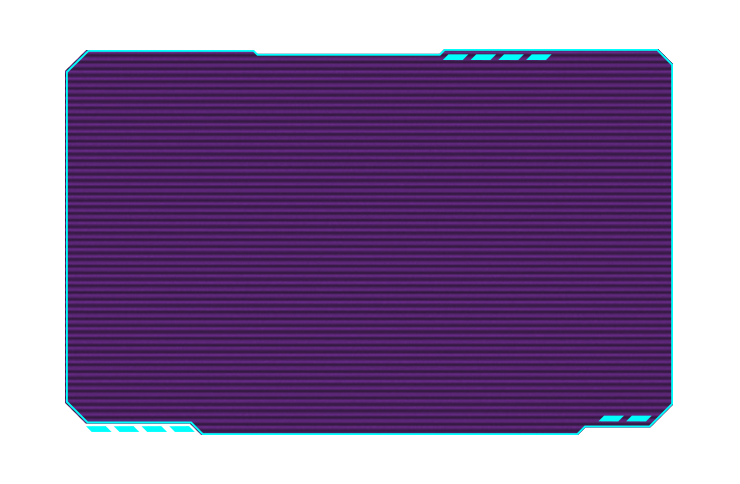
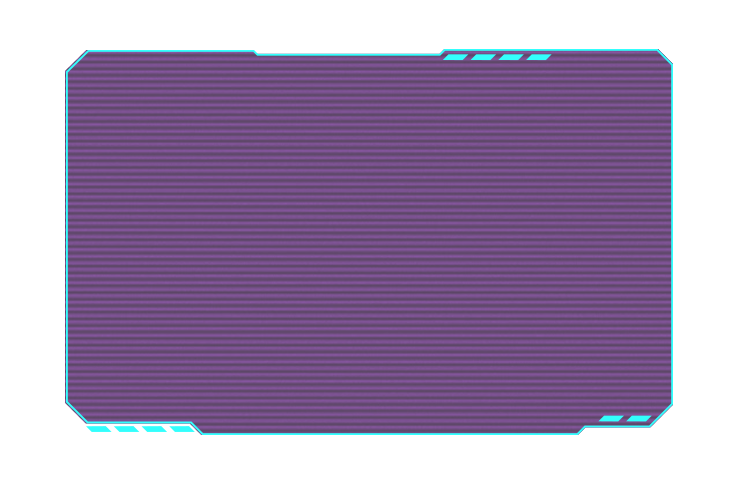
newsletter updates and removed preloader

diff --git a/index.html b/index.html
@@ -21,9 +21,9 @@
 
 <body>
     <div class="page-wrapper">
-        <div class="preloader">
+        <!-- <div class="preloader">
             <div class="icon"></div>
-        </div>
+        </div> -->
 
         <div class="bg-parallax rellax" data-rellax-speed="10">
         </div>
@@ -54,8 +54,8 @@
                                         <li><a href="#roadmap">ROADMAP</a></li>
                                         <li class="dropdown exdrp" id="exdrop"><a href="#">EXPLORE<span class="arrow-d" id="spanex"></span></a>
                                             <ul>
-                                                <li><a href="https://drive.google.com/file/d/11oEQNsbZiHMrc7j1-IWCsz8owNkXF5jy/view" target="_blank">WHITEPAPER</a></li>
                                                 <li><a href="faq.html" target="_blank">FAQs</i></a></li>
+                                                <li><a href="https://drive.google.com/file/d/11oEQNsbZiHMrc7j1-IWCsz8owNkXF5jy/view" target="_blank">WHITEPAPER</a></li>
                                                 <li><a href="https://medium.com/@ASTRO_XP" target="_blank">NEWSLETTER</a></li>
                                             </ul>
                                         </li>
@@ -391,7 +391,7 @@
 
                             <div id="mce-responses" class="clear foot inline">
                                 <div class="response" id="mce-error-response" style="display:none"></div>
-                                <div class="response" id="mce-success-response" style="display:none"></div>
+                                <div class="response" id="mce-success-response" style="display:none">test</div>
                             </div>
                         </div>
                     </div>
@@ -427,8 +427,8 @@
                                                 <div class="inner-column wow fadeInLeft" data-wow-delay="0ms">
                                                     <!-- Sec Title -->
                                                     <div class="sec-title-bld">
-                                                        <div class="title">Build With Us</div>
-                                                        <h2>Let's create the Metaverse together</h2>
+                                                        <!-- <div class="title">Build With Us</div> -->
+                                                        <h2>Let's build the Metaverse together</h2>
                                                     </div>
                                                 </div>
 

diff --git a/css/style.css b/css/style.css
@@ -281,8 +281,10 @@ figure {
     position: relative;
     display: block;
     z-index: 1;
+    font-family: 'Oxanium';
+    font-size: 12px;
     padding: 0px 12px;
-    background-color: #000000c2;
+    background-color: #26003c;
     transition: all 0.3s ease;
     -moz-transition: all 0.3s ease;
     -webkit-transition: all 0.3s ease;
@@ -1984,6 +1986,7 @@ img {
     font-size: 25px;
     line-height: 1.1em;
     font-family: 'Oxanium';
+    padding-left: 200px;
     color: rgb(255 255 255);
     text-align: right;
     font-weight: bold;
@@ -4141,9 +4144,13 @@ input.email {
 ***/
 
 #mc_embed_signup #mce-success-response {
-    color: #ffffff;
+    color: #6de2ff;
     display: none;
     text-shadow: -1px 1px #000000;
+    margin-top: 10px;
+    font-family: 'Oxanium';
+    font-weight: 600;
+    text-transform: uppercase;
     backdrop-filter: blur(1px);
 }
 
@@ -4182,6 +4189,7 @@ input.email {
 
 .mc-field-group .btn-style-one .btn-title {
     background: #180229;
+    font-size: 12px;
 }
 
 #mc_embed_signup form {
@@ -4195,14 +4203,15 @@ input.email {
     display: inline-block;
     margin: 5px 0 0;
     padding: 3px !important;
-    background-color: rgba(255, 255, 255, 0.85);
+    background-color: rgb(34, 14, 54);
     -webkit-border-radius: 3px;
     -moz-border-radius: 3px;
     border-radius: 3px;
     font-size: 14px;
-    font-weight: normal;
+    font-family: 'Oxanium';
+    font-weight: bold;
     z-index: 1;
-    color: #e85c41;
+    color: #ff0000;
 }
 
 .call-to-action-section {
@@ -4453,7 +4462,7 @@ input.email {
     height: 37px;
     font-size: 12px;
     padding: 0px 8px;
-    background: #1b1a1a;
+    background: #2d0046;
     color: #FFF;
     font-weight: 400;
     border: 1px solid rgba(255, 255, 255, 0);

diff --git a/css/responsive.css b/css/responsive.css
@@ -156,6 +156,37 @@
     }
 }
 
+@media only screen and (max-height: 1440px) {
+    .holov-container {
+        height: 52vh !important;
+    }
+    .auto-container.fl {
+        top: -455px;
+    }
+    .holov-image1 img {
+        width: 650px;
+        top: 0px;
+        left: 0px;
+    }
+    .holov-image2 img {
+        width: 650px;
+        top: 0px;
+        left: 0px;
+    }
+    .holov-image3 img {
+        width: 650px;
+        top: -80px;
+        left: 0px;
+        z-index: 2;
+    }
+    .holov-image4 img {
+        width: 650px;
+        top: -60px;
+        z-index: 2;
+        left: 0px;
+    }
+}
+
 @media only screen and (max-height: 1200px) {
     .holov-container {
         height: 75vh !important;
@@ -765,6 +796,7 @@
     .sec-title-bld h2,
     .title {
         text-align: center;
+        padding-left: 0px;
     }
     #newsletter div.content {
         max-width: 434px;

diff --git a/js/script.min.js b/js/script.min.js
@@ -24,7 +24,9 @@
         var target = $(this).attr("data-target");
         $("html, body").animate({ scrollTop: $(target).offset().top }, 1500)
     })), $(".wow").length) && new WOW({ boxClass: "wow", animateClass: "animated", offset: 0, mobile: !1, live: !0 }).init();
-    $(window).on("scroll", (function() { headerStyle(), console.log("scrolled") })), $(window).on("load", (function() { handlePreloader() }));
+    $(window).on("scroll", (function() { headerStyle(), console.log("scrolled") }))
+        // , $(window).on("load", (function() { handlePreloader() }))
+    ;
     var lastId, topMenu = $(".nav-menu"),
         topMenuHeight = topMenu.outerHeight() + 1,
         menuItems = topMenu.find("a"),
